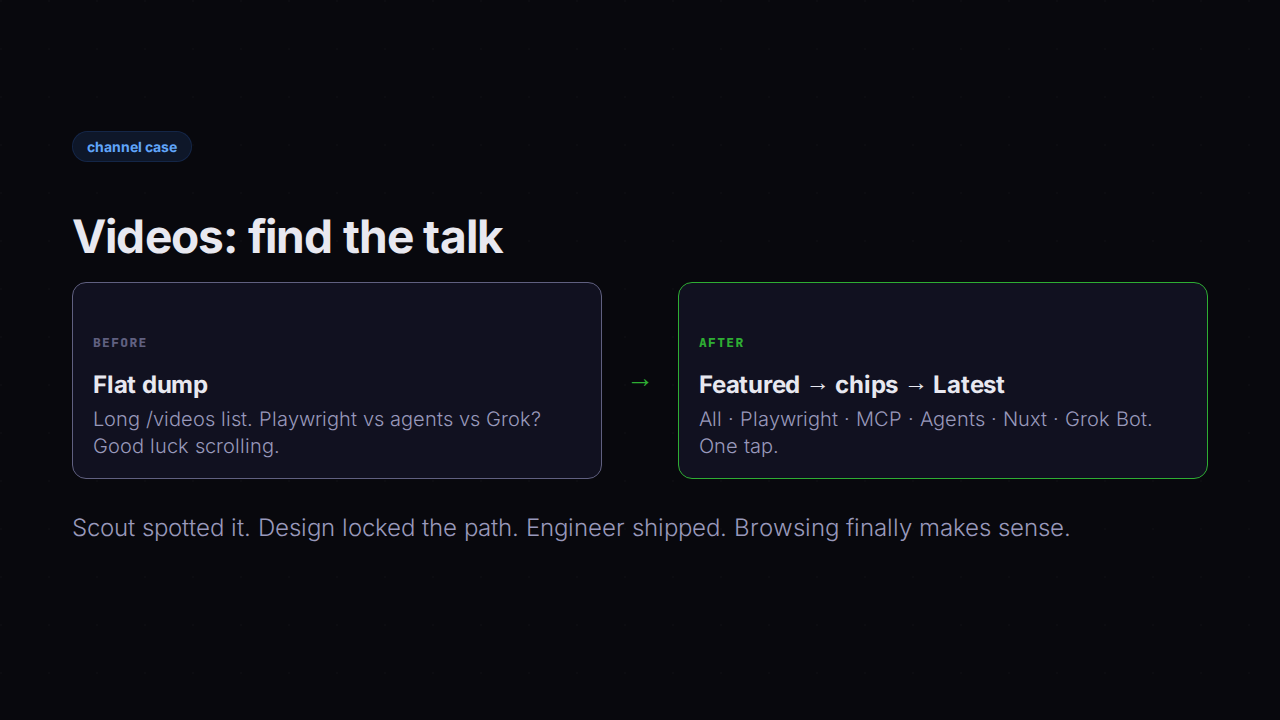
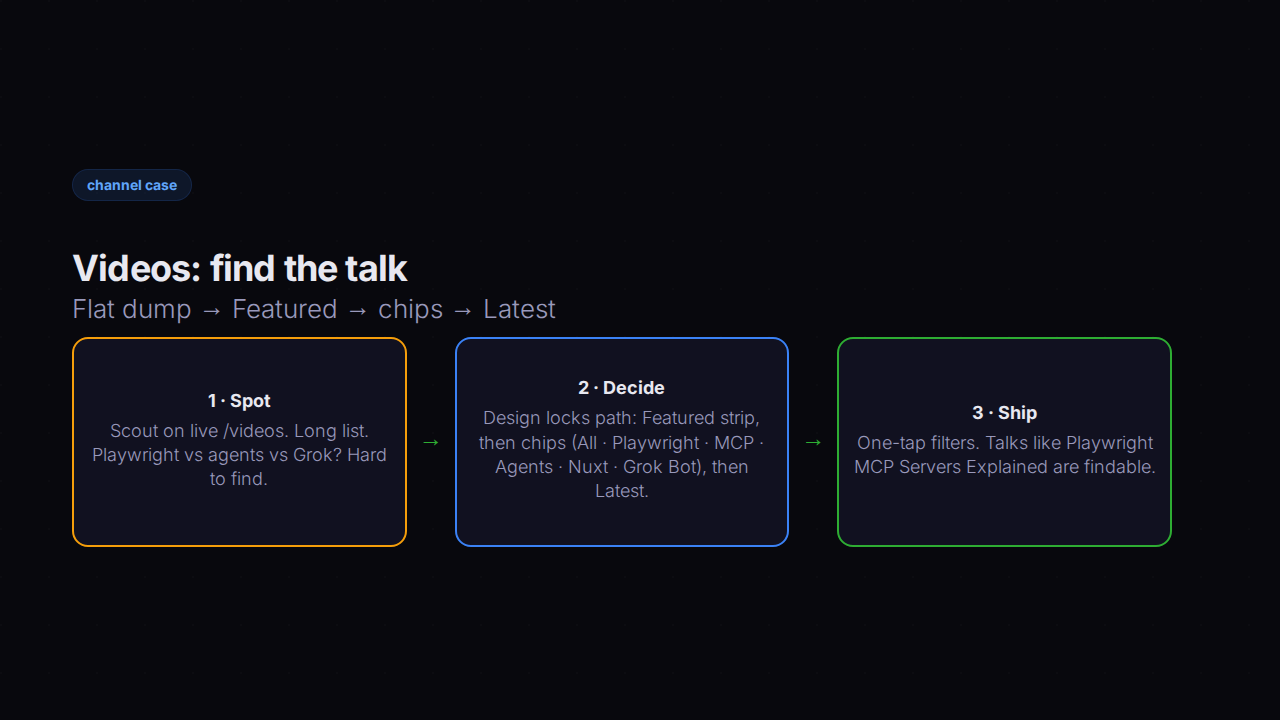
feat: channel cases as Spot → Decide → Ship stories
Replace thin before/after footers with three-beat cards for videos,
awards, and proof-band + selective CI. PR numbers stay in notes only.

diff --git a/infobip-shift-2026-agentic-developer/slides/21-case-proofband.md b/infobip-shift-2026-agentic-developer/slides/21-case-proofband.md
@@ -5,32 +5,33 @@ class: devsum-slide
 
 <div class="slide-inner">
 
-<span class="badge badge-purple" style="font-size:14px;padding:5px 14px;margin-bottom:10px">channel case</span>
+<span class="badge badge-purple" style="font-size:14px;padding:5px 14px;margin-bottom:8px">channel case</span>
 
-<h2 style="margin-bottom:8px">Home proof-band: cheaper paint</h2>
+<h2 style="font-size:36px;margin-bottom:4px">Home proof-band + smarter CI</h2>
+<p class="lede" style="margin-bottom:10px">Same story. Cheaper paint. Checks that earn their keep.</p>
 
-<div class="card-row" style="margin-top:8px;align-items:stretch">
-  <div class="task-card" style="border-color:var(--text-muted);padding:18px 20px;flex:1">
-    <span class="task-id" style="color:var(--text-muted)">before</span>
-    <h3 style="font-size:24px;margin-top:6px">Oversized thumbs</h3>
-    <p style="font-size:20px;margin:8px 0 0">Card-sized UI still pulled huge YouTube <span class="mono">hqdefault</span> images.</p>
+<div class="diagram-chain" style="margin:0;gap:10px;align-items:stretch">
+  <div class="diagram-node orange" style="min-height:210px;padding:16px 14px;flex:1">
+    <div class="label" style="font-size:18px;margin-bottom:8px">1 · Spot</div>
+    <div class="sub" style="font-size:18px;line-height:1.35;margin:0">Lighthouse + QA: card strip still pulls huge <span class="mono">hqdefault</span> thumbs. CI runs too much for tiny edits.</div>
   </div>
-  <div class="diagram-arrow" style="align-self:center;padding:0 8px;font-size:28px">→</div>
-  <div class="task-card" style="border-color:var(--accent);padding:18px 20px;flex:1">
-    <span class="task-id" style="color:var(--accent)">after</span>
-    <h3 style="font-size:24px;margin-top:6px">Sized for the strip</h3>
-    <p style="font-size:20px;margin:8px 0 0"><span class="mono">mqdefault</span> + srcset. Same story. Faster LCP.</p>
+  <div class="diagram-arrow" style="font-size:24px">→</div>
+  <div class="diagram-node blue" style="min-height:210px;padding:16px 14px;flex:1">
+    <div class="label" style="font-size:18px;margin-bottom:8px">2 · Decide</div>
+    <div class="sub" style="font-size:18px;line-height:1.35;margin:0">Design keeps the layout. Engineer sizes assets only. Selective CI, phase by phase.</div>
+  </div>
+  <div class="diagram-arrow" style="font-size:24px">→</div>
+  <div class="diagram-node green" style="min-height:210px;padding:16px 14px;flex:1">
+    <div class="label" style="font-size:18px;margin-bottom:8px">3 · Ship</div>
+    <div class="sub" style="font-size:18px;line-height:1.35;margin:0"><span class="mono">mqdefault</span> + srcset. Faster LCP. Smarter checks.</div>
   </div>
 </div>
-
-<p class="footer-note" style="margin-top:20px">
-  Lighthouse spotted it. Design kept the layout. Engineer only resized the assets.
-</p>
 
 </div>
 
 <!--
-PRESENTER NOTES: CASE PROOFBAND
-- Same visual story, cheaper paint. Optional nod: /talks → /speaking + sitemap.
-- Skip typo patrols. Not demo material.
+PRESENTER NOTES: CASE PROOFBAND + CI
+- Issues #617 to #620 in notes only.
+- Optional tiny nod if asked: /talks → /speaking + sitemap.
+- Skip typo patrols on stage.
 -->

diff --git a/infobip-shift-2026-agentic-developer/slides/21-case-videos.md b/infobip-shift-2026-agentic-developer/slides/21-case-videos.md
@@ -5,32 +5,32 @@ class: devsum-slide
 
 <div class="slide-inner">
 
-<span class="badge badge-blue" style="font-size:14px;padding:5px 14px;margin-bottom:10px">channel case</span>
+<span class="badge badge-blue" style="font-size:14px;padding:5px 14px;margin-bottom:8px">channel case</span>
 
-<h2 style="margin-bottom:8px">Videos: find the talk</h2>
+<h2 style="font-size:36px;margin-bottom:4px">Videos: find the talk</h2>
+<p class="lede" style="margin-bottom:10px">Flat dump → Featured → chips → Latest</p>
 
-<div class="card-row" style="margin-top:8px;align-items:stretch">
-  <div class="task-card" style="border-color:var(--text-muted);padding:18px 20px;flex:1">
-    <span class="task-id" style="color:var(--text-muted)">before</span>
-    <h3 style="font-size:24px;margin-top:6px">Flat dump</h3>
-    <p style="font-size:20px;margin:8px 0 0">Long /videos list. Playwright vs agents vs Grok? Good luck scrolling.</p>
+<div class="diagram-chain" style="margin:0;gap:10px;align-items:stretch">
+  <div class="diagram-node orange" style="min-height:210px;padding:16px 14px;flex:1">
+    <div class="label" style="font-size:18px;margin-bottom:8px">1 · Spot</div>
+    <div class="sub" style="font-size:18px;line-height:1.35;margin:0">Scout on live /videos. Long list. Playwright vs agents vs Grok? Hard to find.</div>
   </div>
-  <div class="diagram-arrow" style="align-self:center;padding:0 8px;font-size:28px">→</div>
-  <div class="task-card" style="border-color:var(--accent);padding:18px 20px;flex:1">
-    <span class="task-id" style="color:var(--accent)">after</span>
-    <h3 style="font-size:24px;margin-top:6px">Featured → chips → Latest</h3>
-    <p style="font-size:20px;margin:8px 0 0">All · Playwright · MCP · Agents · Nuxt · Grok Bot. One tap.</p>
+  <div class="diagram-arrow" style="font-size:24px">→</div>
+  <div class="diagram-node blue" style="min-height:210px;padding:16px 14px;flex:1">
+    <div class="label" style="font-size:18px;margin-bottom:8px">2 · Decide</div>
+    <div class="sub" style="font-size:18px;line-height:1.35;margin:0">Design locks path: Featured strip, then chips (All · Playwright · MCP · Agents · Nuxt · Grok Bot), then Latest.</div>
+  </div>
+  <div class="diagram-arrow" style="font-size:24px">→</div>
+  <div class="diagram-node green" style="min-height:210px;padding:16px 14px;flex:1">
+    <div class="label" style="font-size:18px;margin-bottom:8px">3 · Ship</div>
+    <div class="sub" style="font-size:18px;line-height:1.35;margin:0">One-tap filters. Talks like Playwright MCP Servers Explained are findable.</div>
   </div>
 </div>
-
-<p class="footer-note" style="margin-top:20px">
-  Scout spotted it. Design locked the path. Engineer shipped. Browsing finally makes sense.
-</p>
 
 </div>
 
 <!--
 PRESENTER NOTES: CASE VIDEOS
-- Story: scout → design → ship. Not a PR number dump.
-- Example findable talk: Playwright MCP Servers Explained.
+- Issue #615 in notes only. Don't dump numbers on stage or thanks.
+- Punch: browsing finally makes sense.
 -->

diff --git a/infobip-shift-2026-agentic-developer/slides/21-case-awards.md b/infobip-shift-2026-agentic-developer/slides/21-case-awards.md
@@ -5,32 +5,32 @@ class: devsum-slide
 
 <div class="slide-inner">
 
-<span class="badge badge-orange" style="font-size:14px;padding:5px 14px;margin-bottom:10px">channel case</span>
+<span class="badge badge-orange" style="font-size:14px;padding:5px 14px;margin-bottom:8px">channel case</span>
 
-<h2 style="margin-bottom:8px">Awards: credibility over vanity</h2>
+<h2 style="font-size:36px;margin-bottom:4px">Awards: credibility over vanity</h2>
+<p class="lede" style="margin-bottom:10px">Dead badges out. True ones stay honest.</p>
 
-<div class="card-row" style="margin-top:8px;align-items:stretch">
-  <div class="task-card" style="border-color:var(--text-muted);padding:18px 20px;flex:1">
-    <span class="task-id" style="color:var(--text-muted)">before</span>
-    <h3 style="font-size:24px;margin-top:6px">Stale claims</h3>
-    <p style="font-size:20px;margin:8px 0 0">Auth0 Ambassador still listed. Nuxt badge linked to a team page that no longer has me.</p>
+<div class="diagram-chain" style="margin:0;gap:10px;align-items:stretch">
+  <div class="diagram-node orange" style="min-height:210px;padding:16px 14px;flex:1">
+    <div class="label" style="font-size:18px;margin-bottom:8px">1 · Spot</div>
+    <div class="sub" style="font-size:18px;line-height:1.35;margin:0">Scout flagged About: Auth0 still claimed. Nuxt linked to a team page that no longer lists me.</div>
   </div>
-  <div class="diagram-arrow" style="align-self:center;padding:0 8px;font-size:28px">→</div>
-  <div class="task-card" style="border-color:var(--accent);padding:18px 20px;flex:1">
-    <span class="task-id" style="color:var(--accent)">after</span>
-    <h3 style="font-size:24px;margin-top:6px">Clean truth</h3>
-    <p style="font-size:20px;margin:8px 0 0">Auth0 removed. Nuxt stays (still true) but unlinked.</p>
+  <div class="diagram-arrow" style="font-size:24px">→</div>
+  <div class="diagram-node blue" style="min-height:210px;padding:16px 14px;flex:1">
+    <div class="label" style="font-size:18px;margin-bottom:8px">2 · Decide</div>
+    <div class="sub" style="font-size:18px;line-height:1.35;margin:0">Check live Auth0 and Nuxt pages. Keep what's true. Drop vanity links.</div>
+  </div>
+  <div class="diagram-arrow" style="font-size:24px">→</div>
+  <div class="diagram-node green" style="min-height:210px;padding:16px 14px;flex:1">
+    <div class="label" style="font-size:18px;margin-bottom:8px">3 · Ship</div>
+    <div class="sub" style="font-size:18px;line-height:1.35;margin:0">Auth0 gone. Nuxt badge stays (true) but unlinked.</div>
   </div>
 </div>
-
-<p class="footer-note" style="margin-top:20px">
-  Scout flagged. We checked the live pages. Ship the honest version.
-</p>
 
 </div>
 
 <!--
 PRESENTER NOTES: CASE AWARDS
-- Credibility > vanity links.
-- Don't dig into issue numbers on stage.
+- Issue #616 in notes only.
+- Credibility over vanity links.
 -->
